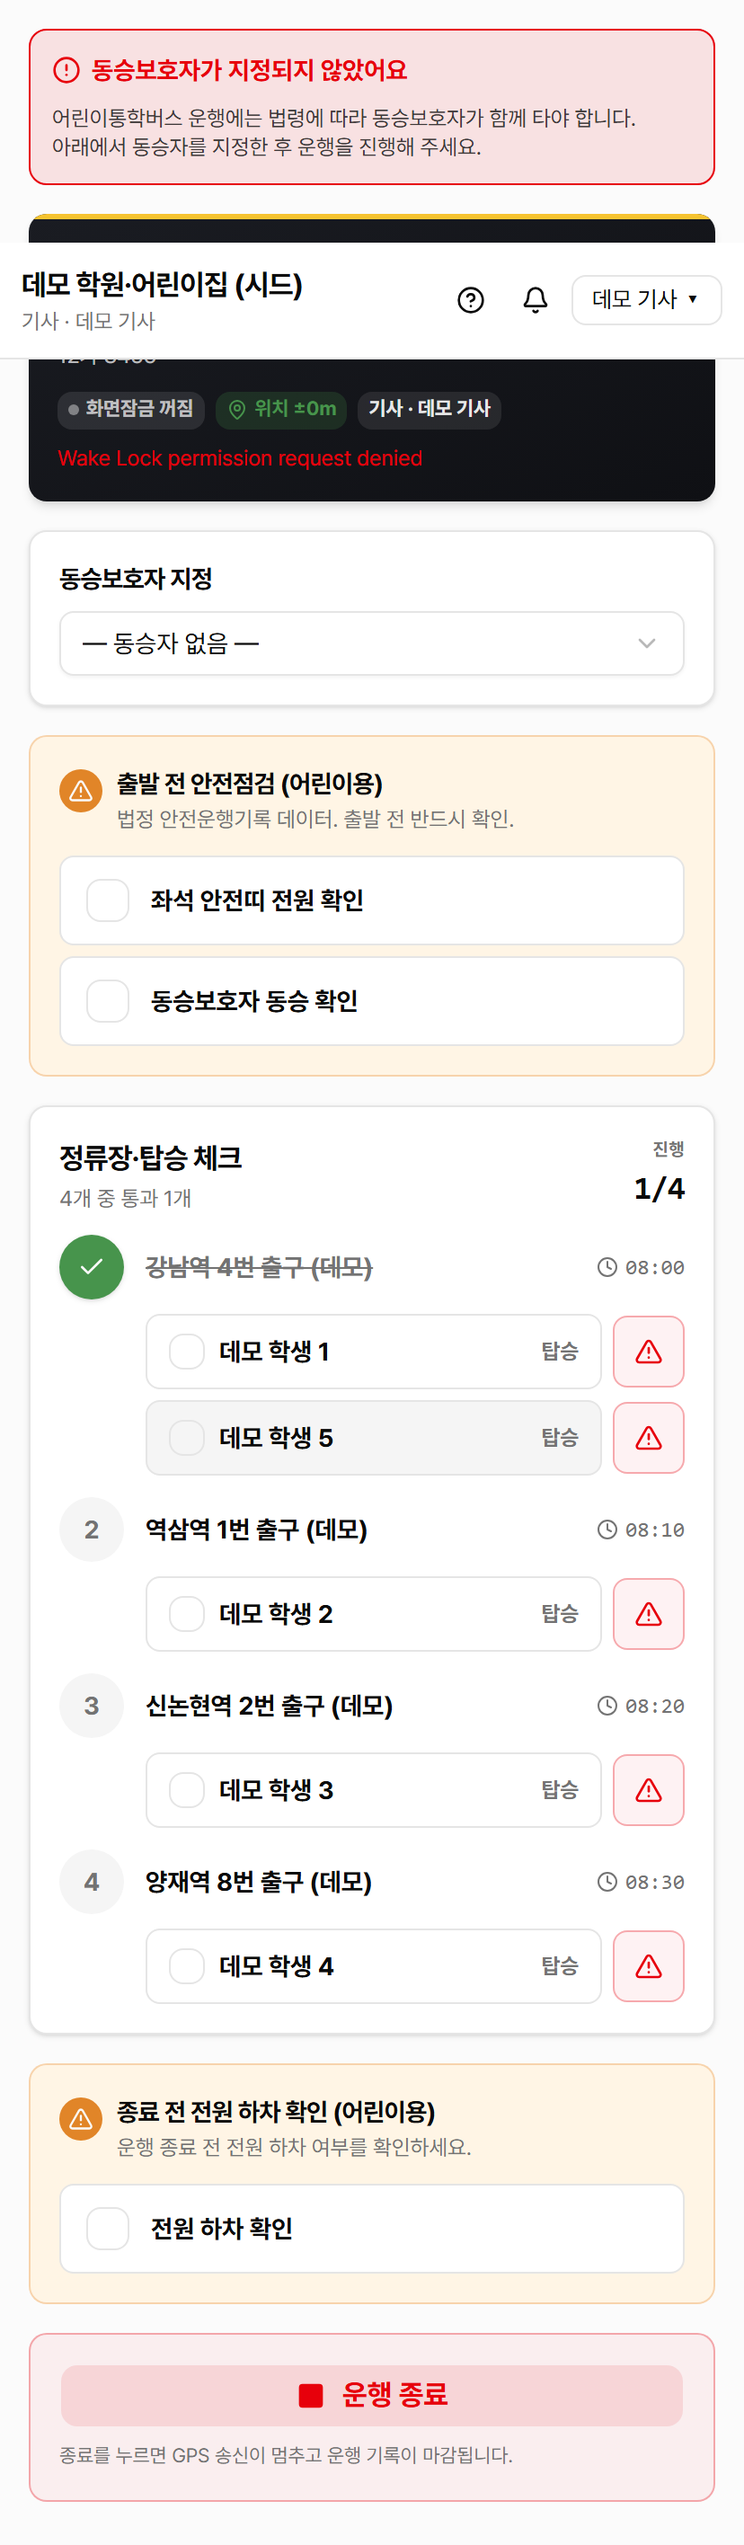
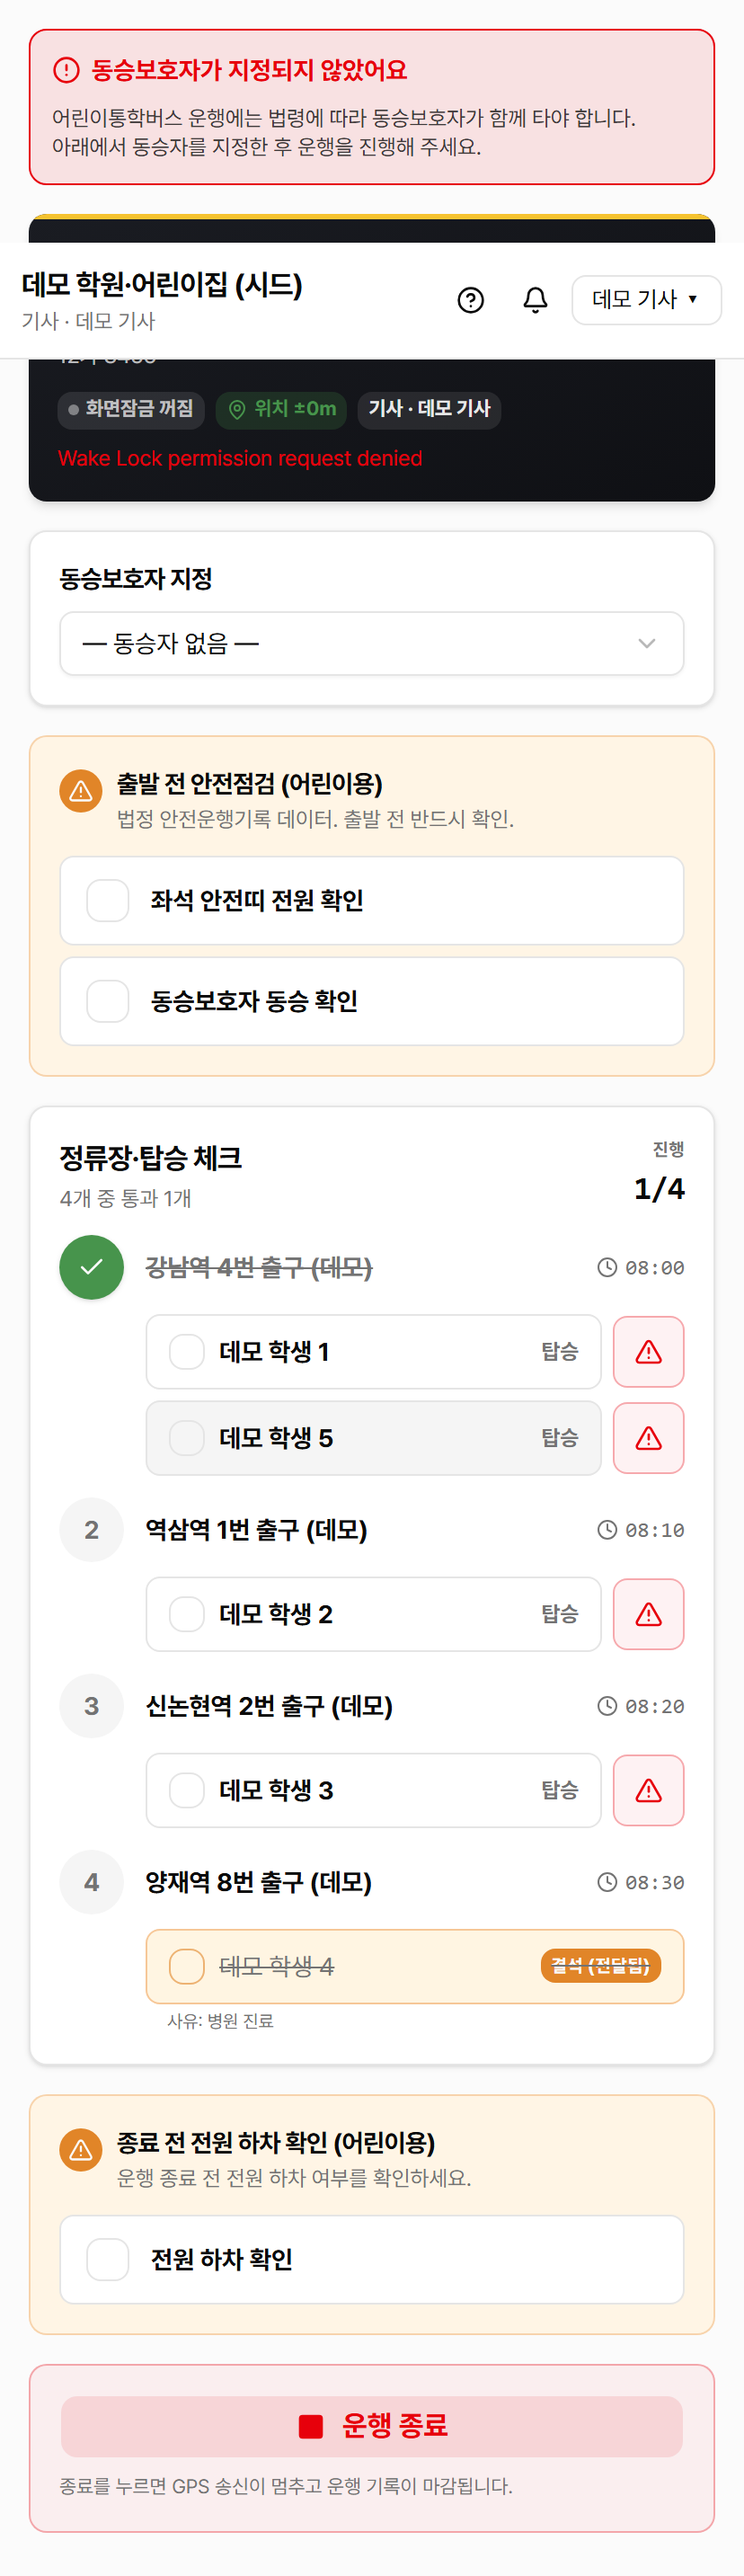
docs(manual): driver 결석 학생 + 60초 미처리 강조 화면 추가
prisma/seed.ts:
- AbsenceRequest 1건 추가 — 학생 4가 오늘 등하원 모두 결석 (NOTIFIED_DRIVER).
  driver 운행 화면에서 "결석 (전달됨)" 뱃지 표시 캡처용 데이터.

scripts/manual-screenshots.ts:
- 12-absent-student: 결석 학생 li element 직접 캡처 (학생 4 회색 + 노란 결석 뱃지)
- 13-stop-expired: 첫 정류장 GPS 진입 → 8초 통과 감지 → 60초 wait →
  미처리 학생 노란 "처리 누락" 강조 캡처

driver.md 본문 두 섹션에 image reference 활성화. broken refs 0 유지.

diff --git a/scripts/manual-screenshots.ts b/scripts/manual-screenshots.ts
@@ -327,8 +327,33 @@ async function runDriver(browser: Browser) {
       fullPage: true,
     });
 
-    // 8. 학생 토글 (전체 페이지 fullPage)
+    // 8. 학생 토글 + 결석 학생 표시 (학생 4가 NOTIFIED_DRIVER 결석)
+    // 운행 화면 펼친 채로 학생 명단 영역 캡처. 학생 4 행에 "결석 (전달됨)" 뱃지가 보임.
     await shoot(page, "driver", "10-student-toggle", {
+      fullPage: true,
+    });
+
+    // 결석 학생만 자세히 — 학생 4가 보이는 정류장으로 스크롤. seed에서 학생 4는 stop[3] = 4번째 정류장.
+    const absentLabel = page.getByText(/결석/).first();
+    if (await absentLabel.isVisible()) {
+      await absentLabel.scrollIntoViewIfNeeded();
+      await page.waitForTimeout(500);
+      const absentStop = page
+        .locator('li:has-text("데모 학생 4")')
+        .first();
+      if (await absentStop.count()) {
+        await absentStop.screenshot({
+          path: "docs/manual/screenshots/driver/12-absent-student.png",
+        });
+        console.log("  📸 docs/manual/screenshots/driver/12-absent-student.png");
+      }
+    }
+
+    // 9. 60초 미처리 강조 (13-stop-expired) — 정류장 통과 후 60초가 지나면 노란 깜빡임
+    // trip-running-view.tsx의 setTimeout 60_000ms 하드코딩이라 60초 wait 필수.
+    console.log("  ⏳ 60초 대기 (정류장 통과 후 미처리 학생 강조 트리거)...");
+    await page.waitForTimeout(62_000);
+    await shoot(page, "driver", "13-stop-expired", {
       fullPage: true,
     });
 

diff --git a/prisma/seed.ts b/prisma/seed.ts
@@ -290,6 +290,23 @@ async function main() {
   );
   console.log(`  ✓ RouteStudents: ${students.length * 2}`);
 
+  // 결석 신청 1건 — 학원장이 "기사에 전달" 처리한 상태 (NOTIFIED_DRIVER).
+  // driver 운행 화면에 학생이 "결석 (전달됨)" 뱃지로 표시되어 메뉴얼 캡처용.
+  // 학생 4 (= 데모 학생 4)가 오늘 등하원 모두 결석.
+  const today = new Date();
+  today.setUTCHours(0, 0, 0, 0);
+  await db.absenceRequest.create({
+    data: {
+      studentId: students[3]!.id,
+      createdBy: guardians[3]!.id,
+      date: today,
+      type: "ABSENT_BOTH",
+      reason: "병원 진료",
+      status: "NOTIFIED_DRIVER",
+    },
+  });
+  console.log(`  ✓ AbsenceRequest: 1 (학생 4, NOTIFIED_DRIVER)`);
+
   console.log("\n✅ Seed complete.\n");
   console.log("📋 Demo accounts (모두 비번 demo1234!):");
   console.log(`  - OWNER:    ${DEMO_OWNER_EMAIL}`);
